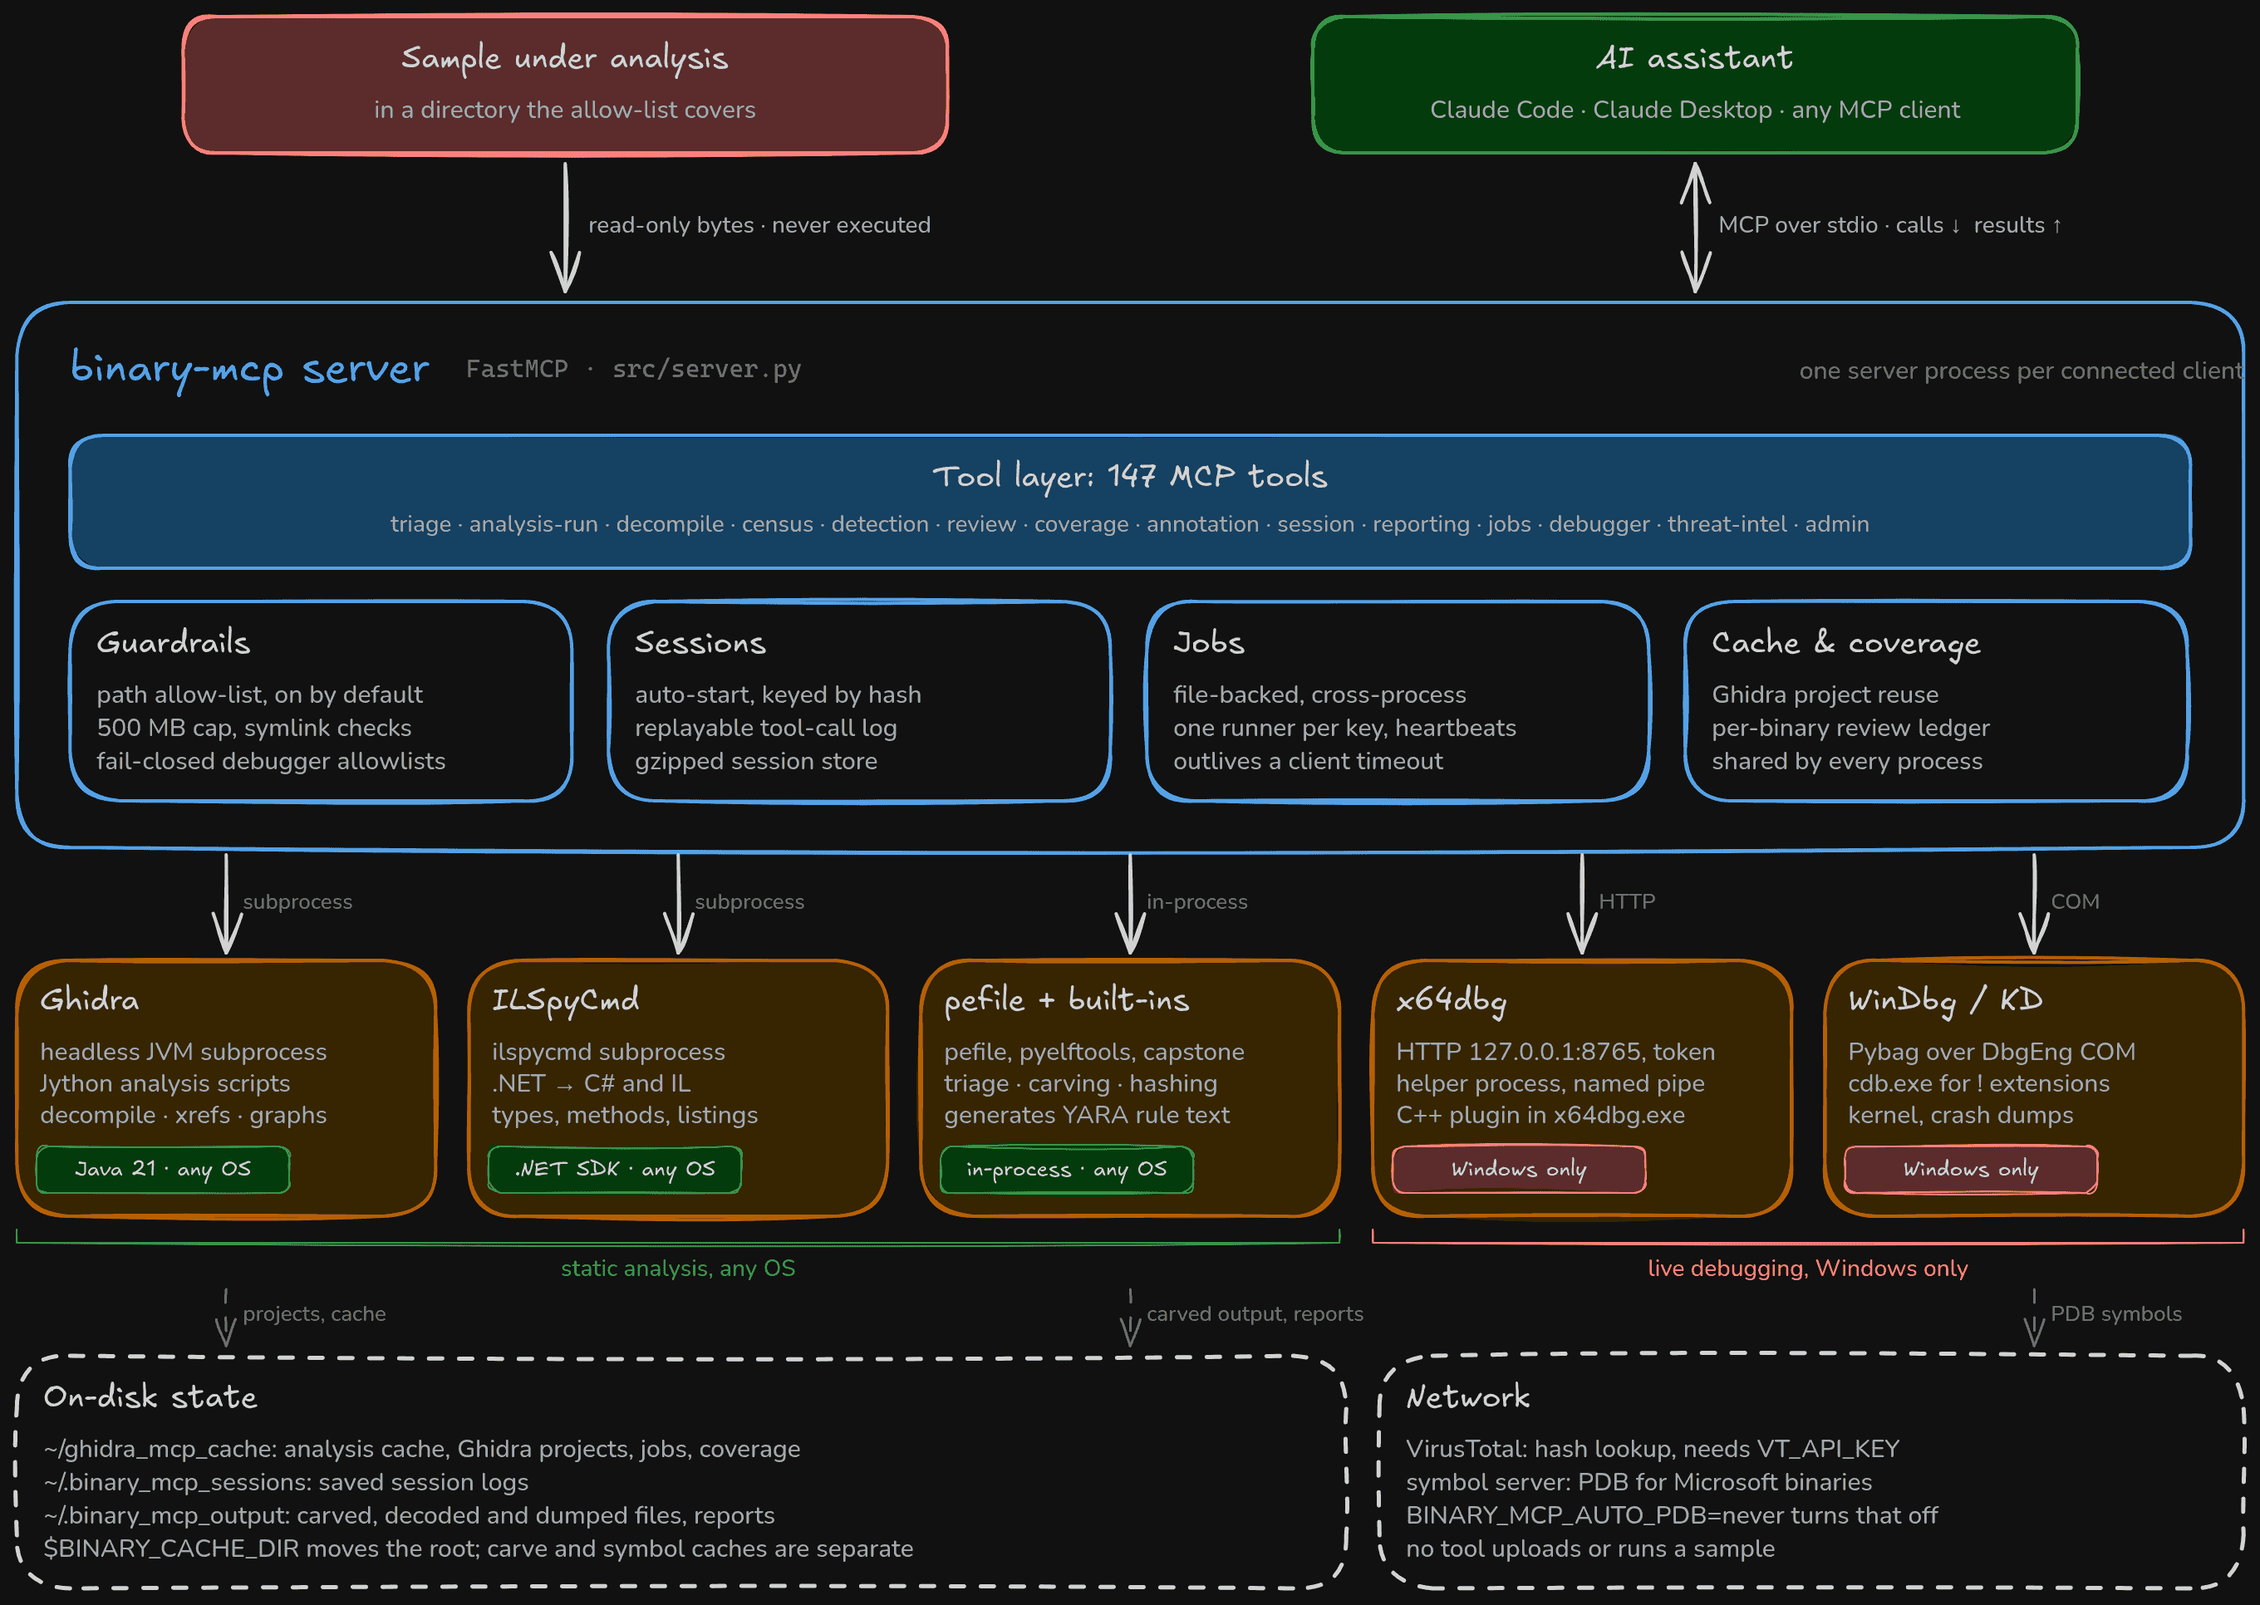
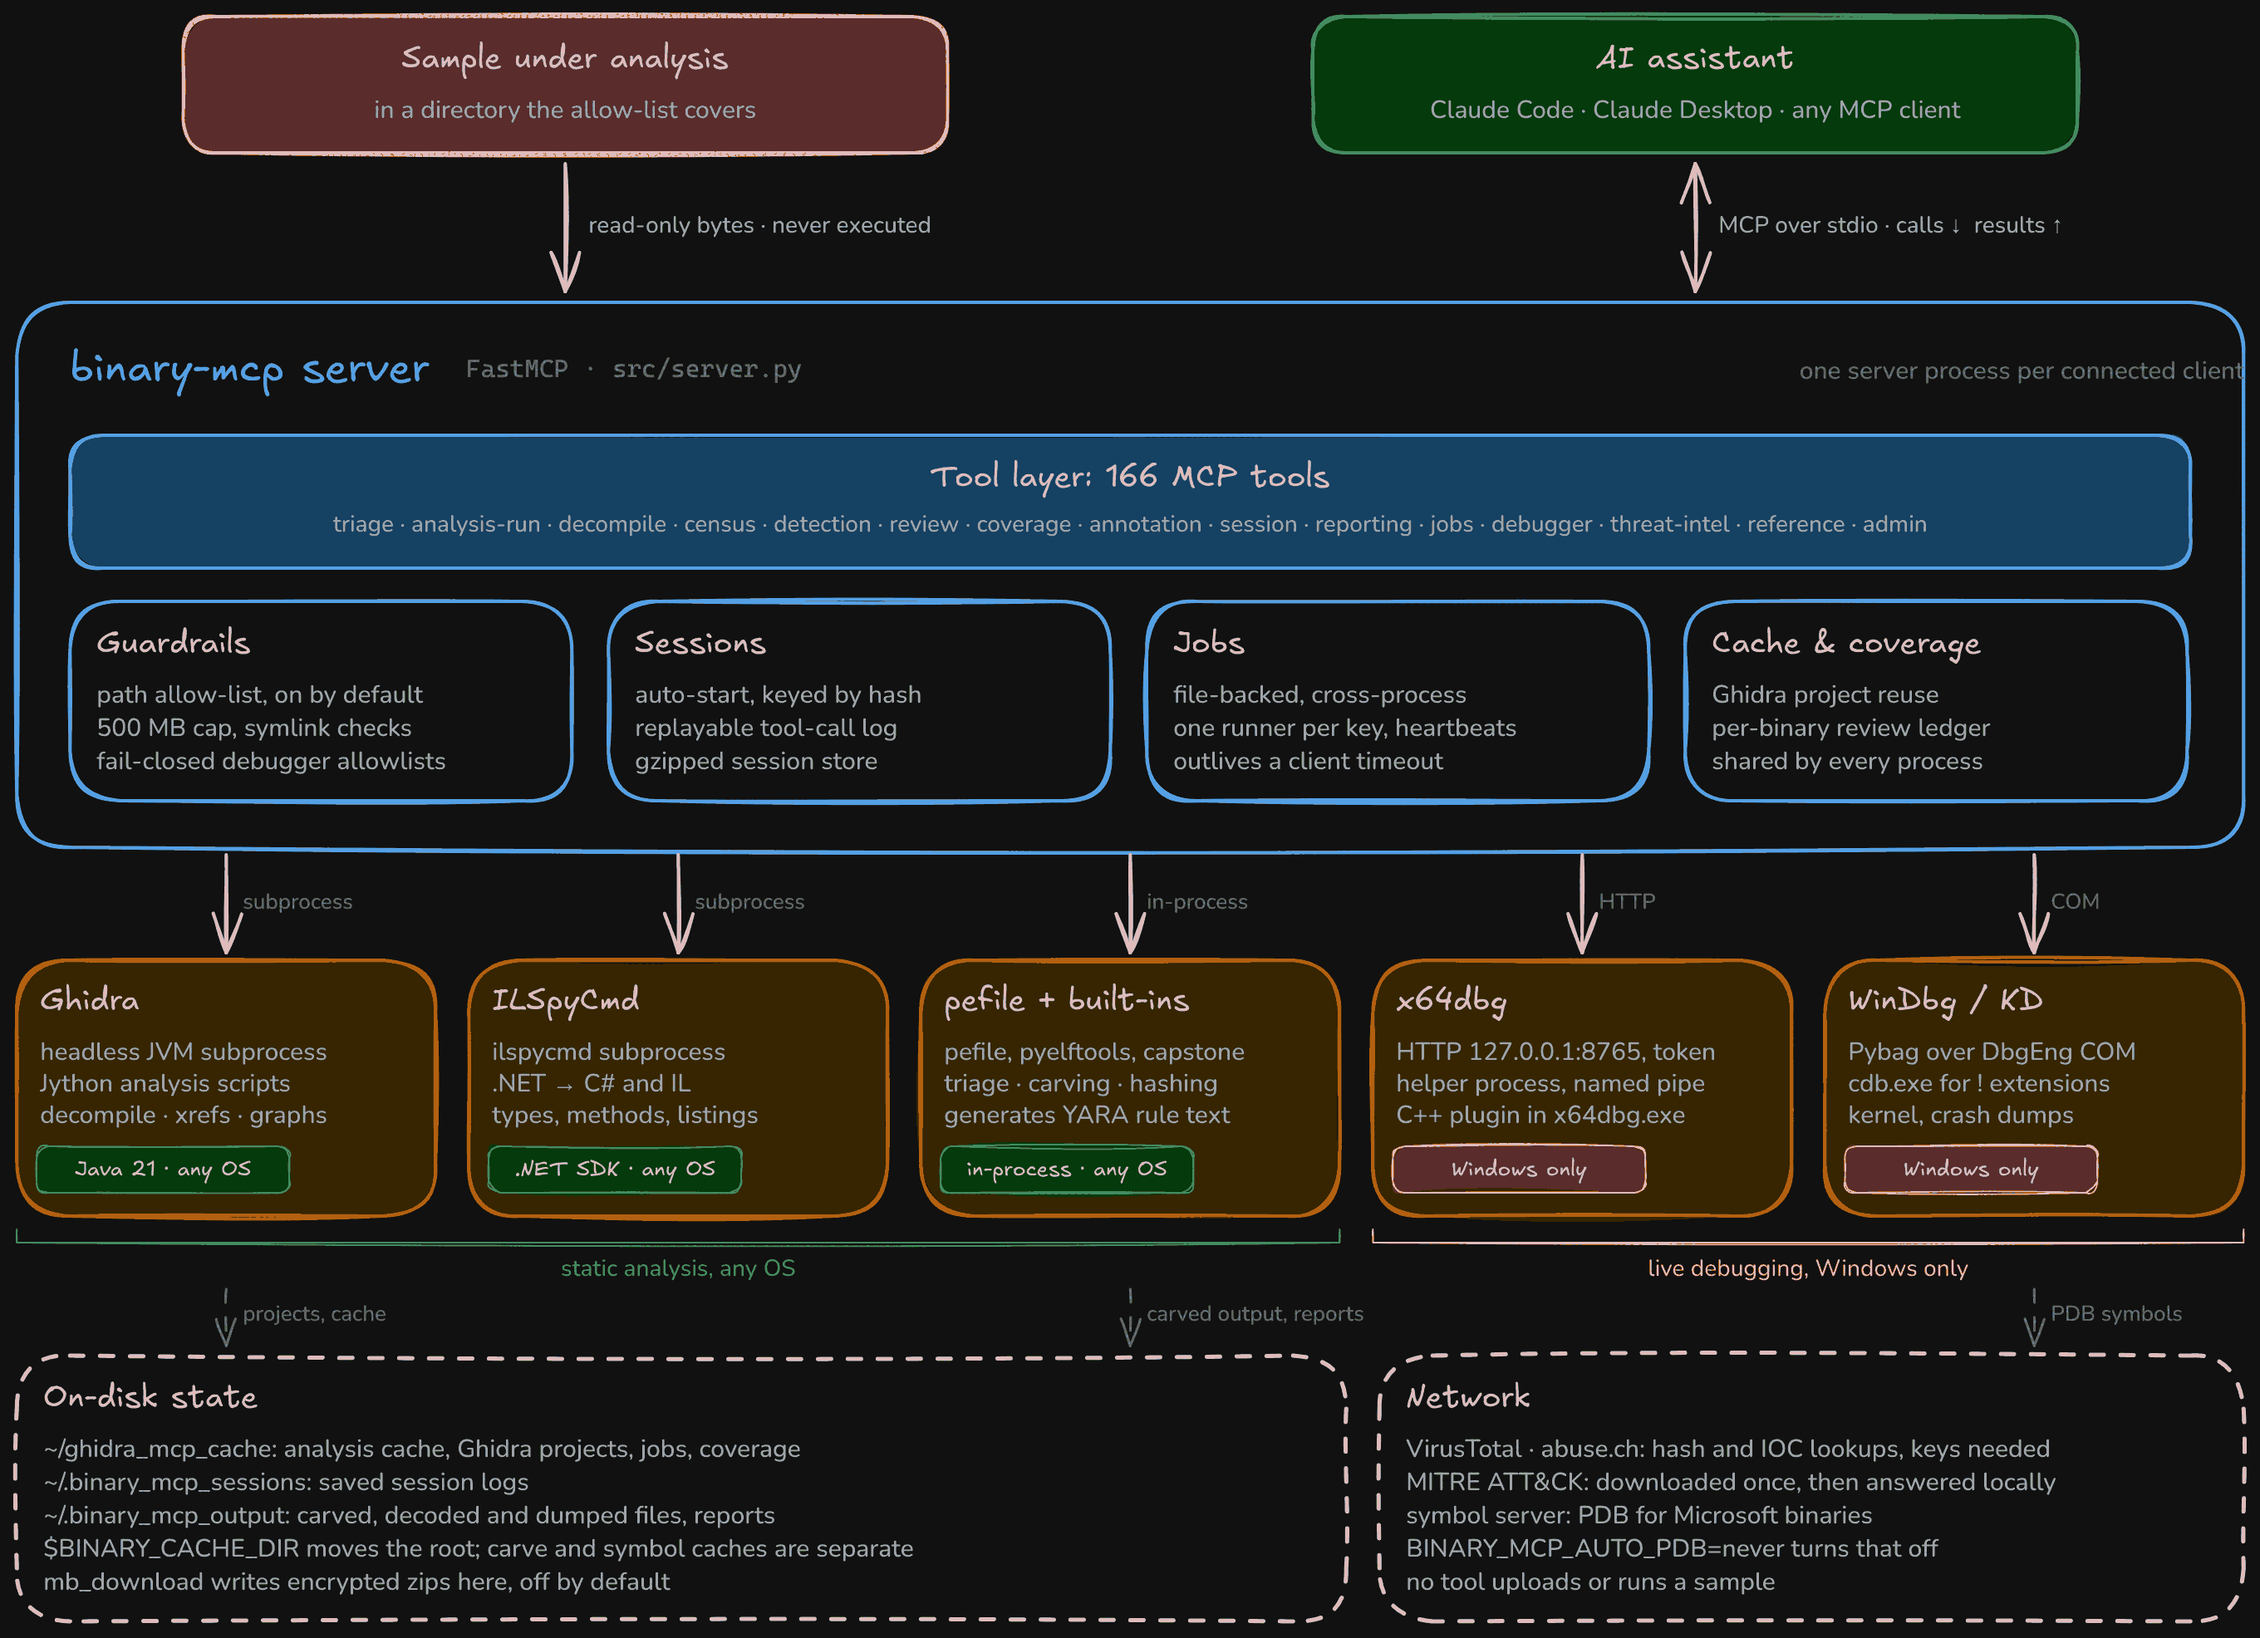
Carry the new integrations into main's doc-accuracy guards
Rebasing onto main picked up the two guards #18 added, and both had
something to say about this branch.

test_no_config_key_is_dead failed on eleven keys. CONFIG_KEYS declares
ABUSECH_API_KEY, ATTACK_* and the MB_* settings, and the modules do read
them -- through module constants the scanner is built to follow -- but
PROJECT_ENV_PREFIXES listed only the prefixes that existed when it was
written, so none of the three new ones was collected from either
direction. The dead-key half therefore reported every new key as
unwired, and the undocumented half would have stayed silent on a future
abuse.ch or ATT&CK variable that no documentation mentioned. Adding the
prefixes is what makes the guard cover these integrations at all.

test_architecture_diagram_tool_count_matches_code failed on 147 against
166. That test exists because the diagram is a PNG and no other
assertion can read it, so the scene is edited and both themes
re-exported at the same scale and padding (2x, 10) the originals used.

Two further claims in the same diagram went stale without any test
noticing, both of them about this branch:

  * The Network panel named VirusTotal as the only third-party lookup.
    It now names abuse.ch alongside it and MITRE ATT&CK as fetch-once,
    answered-locally. Under-stating where the server connects is the
    thing this PR argues against everywhere else.
  * The tool-layer strip listed every category but the new reference
    one.
[…]

diff --git a/tests/test_docs_accuracy.py b/tests/test_docs_accuracy.py
@@ -948,6 +948,9 @@ PROJECT_ENV_PREFIXES = (
     "KDNET_",
     "VT_",
     "OBSIDIAN_",
+    "ABUSECH_",
+    "MB_",
+    "ATTACK_",
 )
 
 # Variables that are real, read by src/, and deliberately absent from
